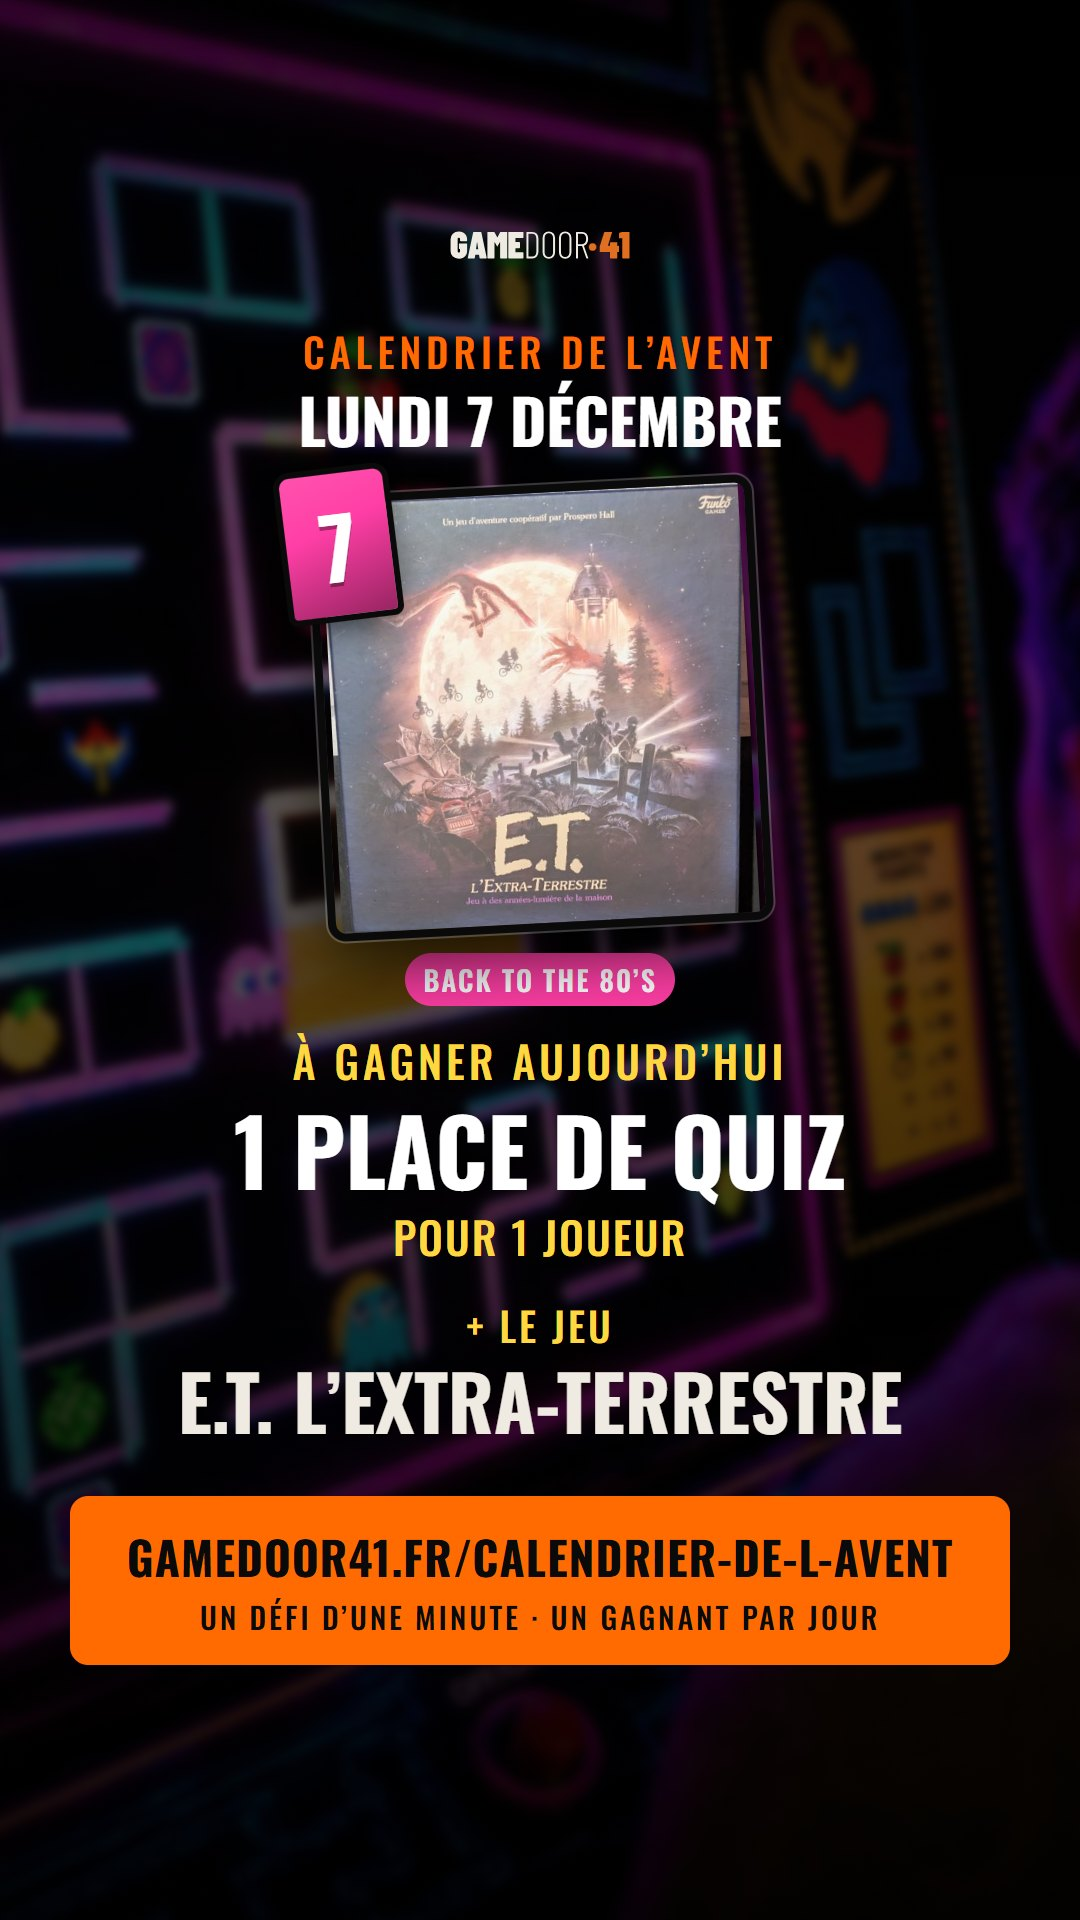
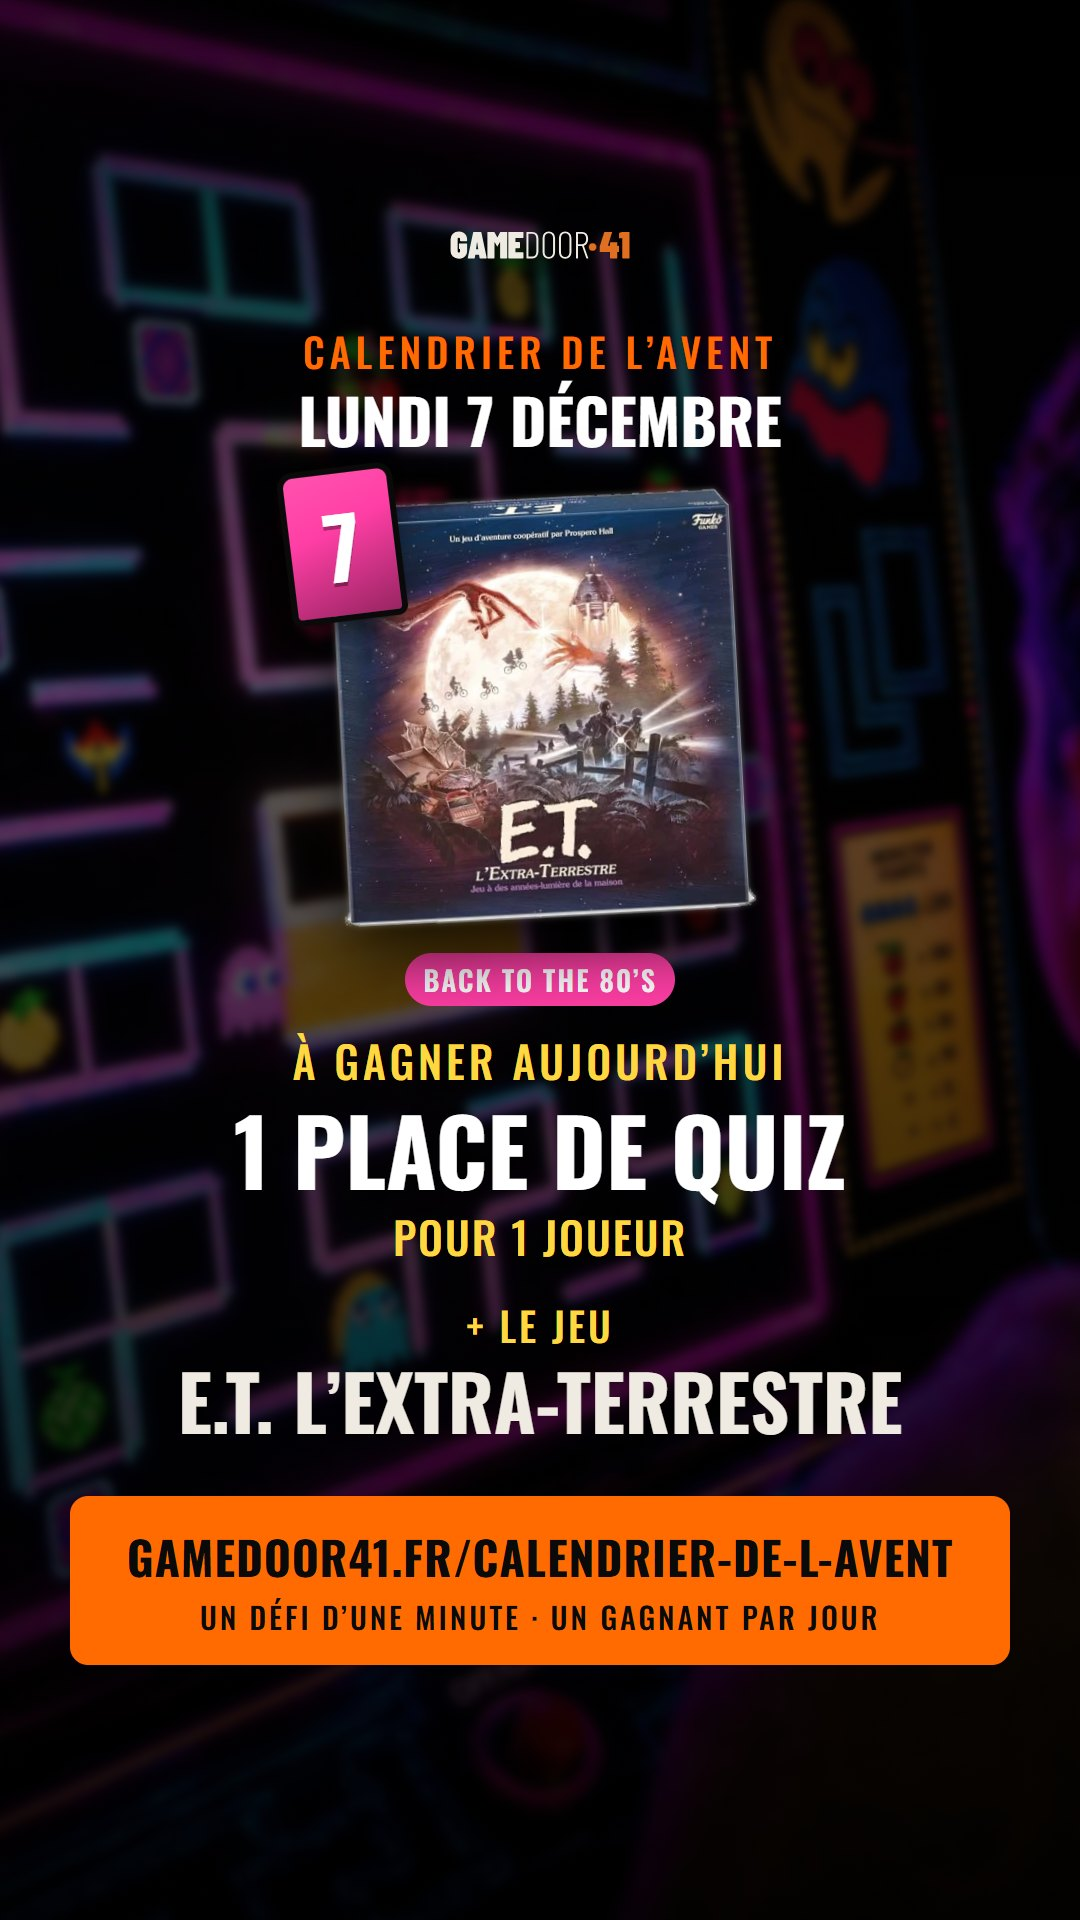
Avent 2026 : belles photos détourées d'E.T., Retour vers le futur, The Goonies
- Photos des boîtes fournies par Allan, fond blanc retiré par calcul
  (pas d'IA) : WebP transparents de 53 à 76 Ko, à la place des JPEG.
- Visuels des réseaux (jours 7, 15, 23) : pas de cadre autour d'une boîte
  détourée, une ombre qui suit sa forme (option `detoure`).
- VERSION_IMAGES = 2 (cache immuable de /img/*).

Changed region(s): [[0.275, 0.25, 0.7333, 0.5], [0.2444, 0.25, 0.275, 0.3125]]

diff --git a/calendrier-de-l-avent/index.html b/calendrier-de-l-avent/index.html
@@ -114,27 +114,27 @@
         <!-- lots:debut (écrit par avent-src/ecrire-lots.mjs à partir de avent-src/lots-2026.mjs : ne pas modifier ici) -->
         <div class="section-header"><p class="kicker">Les lots</p><h2>Un gagnant chaque jour, et 12 cadeaux en plus</h2></div>
         <ul class="av-lots">
-          <li class="av-carte av-lot av-lot--orange"><figure class="av-lot-visuel av-lot-visuel--photo"><img src="/img/quiz/salle-quiz-buzzers-premier-plan-480w.jpg?v=1" alt="La salle du quiz Buzz Your Brain" loading="lazy" decoding="async"></figure><p class="av-lot-quand">Chaque jour</p><h3>1&nbsp;place de quiz pour 1&nbsp;joueur</h3><p>Un gagnant tiré au sort parmi les joueurs du jour, que la réponse soit juste ou non. La place offerte vaut pour une seule personne, pas pour une session entière : les autres joueurs du groupe paient leur place au tarif habituel.</p></li>
-          <li class="av-carte av-lot av-lot--or"><figure class="av-lot-visuel av-lot-visuel--photo"><img src="/img/escape/salle-garde-a-vue-barreaux-poste-garde-480w.jpg?v=1" alt="La salle Garde à Vue" loading="lazy" decoding="async"></figure><p class="av-lot-quand">★ dimanches 6, 13 et 20, jeudi 24 décembre</p><h3>1&nbsp;place d’escape game pour 1&nbsp;joueur</h3><p>Les jours à étoile, la place de quiz devient une place d’escape game, dans la salle de votre choix : Garde à Vue, Psychiatric ou Back to the 80’s. Elle aussi vaut pour une seule personne.</p></li>
-          <li class="av-carte av-lot av-lot--or"><figure class="av-lot-visuel av-lot-visuel--photo"><img src="/img/escape/salle-back-to-80s-borne-arcade-pacman-480w.jpg?v=1" alt="La salle Back to the 80’s" loading="lazy" decoding="async"></figure><p class="av-lot-quand">Le grand tirage</p><h3>Une session d’escape game complète</h3><p>Le gros lot, tiré au sort parmi tous les tickets du mois : une session offerte pour toute votre équipe, de 2 à 6 joueurs, dans la salle de votre choix (Garde à Vue, Psychiatric ou Back to the 80’s).</p></li>
-          <li class="av-carte av-lot av-lot--orange"><figure class="av-lot-visuel av-lot-visuel--photo"><img src="/img/quiz/salle-quiz-buzz-your-brain-vue-large-480w.jpg?v=1" alt="La salle du quiz" loading="lazy" decoding="async"></figure><p class="av-lot-quand">Les 24 portes ouvertes</p><h3>Une session de quiz complète</h3><p>Tirée au sort parmi celles et ceux qui ont ouvert les 24 portes : une session offerte pour tout votre groupe, de 4 à 16 candidats, émission au choix.</p></li>
+          <li class="av-carte av-lot av-lot--orange"><figure class="av-lot-visuel av-lot-visuel--photo"><img src="/img/quiz/salle-quiz-buzzers-premier-plan-480w.jpg?v=2" alt="La salle du quiz Buzz Your Brain" loading="lazy" decoding="async"></figure><p class="av-lot-quand">Chaque jour</p><h3>1&nbsp;place de quiz pour 1&nbsp;joueur</h3><p>Un gagnant tiré au sort parmi les joueurs du jour, que la réponse soit juste ou non. La place offerte vaut pour une seule personne, pas pour une session entière : les autres joueurs du groupe paient leur place au tarif habituel.</p></li>
+          <li class="av-carte av-lot av-lot--or"><figure class="av-lot-visuel av-lot-visuel--photo"><img src="/img/escape/salle-garde-a-vue-barreaux-poste-garde-480w.jpg?v=2" alt="La salle Garde à Vue" loading="lazy" decoding="async"></figure><p class="av-lot-quand">★ dimanches 6, 13 et 20, jeudi 24 décembre</p><h3>1&nbsp;place d’escape game pour 1&nbsp;joueur</h3><p>Les jours à étoile, la place de quiz devient une place d’escape game, dans la salle de votre choix : Garde à Vue, Psychiatric ou Back to the 80’s. Elle aussi vaut pour une seule personne.</p></li>
+          <li class="av-carte av-lot av-lot--or"><figure class="av-lot-visuel av-lot-visuel--photo"><img src="/img/escape/salle-back-to-80s-borne-arcade-pacman-480w.jpg?v=2" alt="La salle Back to the 80’s" loading="lazy" decoding="async"></figure><p class="av-lot-quand">Le grand tirage</p><h3>Une session d’escape game complète</h3><p>Le gros lot, tiré au sort parmi tous les tickets du mois : une session offerte pour toute votre équipe, de 2 à 6 joueurs, dans la salle de votre choix (Garde à Vue, Psychiatric ou Back to the 80’s).</p></li>
+          <li class="av-carte av-lot av-lot--orange"><figure class="av-lot-visuel av-lot-visuel--photo"><img src="/img/quiz/salle-quiz-buzz-your-brain-vue-large-480w.jpg?v=2" alt="La salle du quiz" loading="lazy" decoding="async"></figure><p class="av-lot-quand">Les 24 portes ouvertes</p><h3>Une session de quiz complète</h3><p>Tirée au sort parmi celles et ceux qui ont ouvert les 24 portes : une session offerte pour tout votre groupe, de 4 à 16 candidats, émission au choix.</p></li>
         </ul>
         <p class="av-pas-de-perdant"><span class="av-pas-de-perdant-titre">Pas de perdant</span> Le 25 décembre, chaque joueur qui n’a gagné aucun tirage reçoit quand même 1&nbsp;place de quiz pour 1&nbsp;joueur, par mail. Il suffit d’avoir ouvert une porte.</p>
         <h3 class="av-jeux-titre">12 jours, un cadeau en plus de la place</h3>
         <p class="av-jeux-intro">Ces jours-là, le gagnant du jour repart avec sa place et avec un cadeau, choisi dans l’univers de la porte.</p>
         <ol class="av-jeux">
-          <li class="av-jeu av-teinte--gav"><figure class="av-jeu-visuel"><img src="/img/avent/jeux/dossiers-criminels.jpg?v=1" alt="La boîte du jeu Dossiers Criminels Pocket" loading="lazy" decoding="async"><span class="av-jeu-porte" aria-hidden="true">1</span></figure><div><p class="av-jeu-quand">mardi 1er décembre</p><h4>Dossiers Criminels Pocket <span>Qui a tué Isabella Vega ?</span></h4><p>Une enquête de poche : des indices, des suspects, un coupable à démasquer.</p><p class="av-jeu-place">Avec 1&nbsp;place de quiz pour 1&nbsp;joueur</p></div></li>
-          <li class="av-jeu av-teinte--psy"><figure class="av-jeu-visuel"><img src="/img/avent/jeux/black-stories.jpg?v=1" alt="La boîte du jeu Black Stories" loading="lazy" decoding="async"><span class="av-jeu-porte" aria-hidden="true">4</span></figure><div><p class="av-jeu-quand">vendredi 4 décembre</p><h4>Black Stories</h4><p>50 énigmes macabres à résoudre en posant des questions. Réponses permises : oui ou non.</p><p class="av-jeu-place">Avec 1&nbsp;place de quiz pour 1&nbsp;joueur</p></div></li>
-          <li class="av-jeu av-teinte--quiz"><figure class="av-jeu-visuel"><img src="/img/avent/jeux/esquisse.jpg?v=1" alt="La boîte du jeu Esquissé ?" loading="lazy" decoding="async"><span class="av-jeu-porte" aria-hidden="true">6</span></figure><div><p class="av-jeu-quand">★ dimanche 6 décembre</p><h4>Esquissé ? <span>Version 6 joueurs</span></h4><p>Le téléphone arabe en dessin : on dessine, on devine, et tout dérape.</p><p class="av-jeu-place">Avec 1&nbsp;place d’escape game pour 1&nbsp;joueur</p></div></li>
-          <li class="av-jeu av-teinte--80s"><figure class="av-jeu-visuel"><img src="/img/avent/jeux/et.jpg?v=1" alt="La boîte du jeu E.T. l’Extra-Terrestre" loading="lazy" decoding="async"><span class="av-jeu-porte" aria-hidden="true">7</span></figure><div><p class="av-jeu-quand">lundi 7 décembre</p><h4>E.T. l’Extra-Terrestre</h4><p>Jeu d’aventure coopératif : aidez E.T. à rentrer chez lui avant les agents. 2 à 4 joueurs, dès 10 ans, 30 minutes.</p><p class="av-jeu-place">Avec 1&nbsp;place de quiz pour 1&nbsp;joueur</p></div></li>
-          <li class="av-jeu av-teinte--quiz"><figure class="av-jeu-visuel"><img src="/img/avent/jeux/snort-funny.jpg?v=1" alt="La boîte du jeu Snort Funny" loading="lazy" decoding="async"><span class="av-jeu-porte" aria-hidden="true">10</span></figure><div><p class="av-jeu-quand">jeudi 10 décembre</p><h4>Snort Funny <span>Le jeu « ingroinyable »</span></h4><p>Un jeu d’ambiance pour faire rire toute la table.</p><p class="av-jeu-place">Avec 1&nbsp;place de quiz pour 1&nbsp;joueur</p></div></li>
-          <li class="av-jeu av-teinte--gav"><figure class="av-jeu-visuel"><img src="/img/avent/jeux/sous-scelles.jpg?v=1" alt="La boîte du jeu Sous Scellés : La Fille du Troisième" loading="lazy" decoding="async"><span class="av-jeu-porte" aria-hidden="true">13</span></figure><div><p class="av-jeu-quand">★ dimanche 13 décembre</p><h4>Sous Scellés <span>La Fille du Troisième</span></h4><p>Un dossier d’enquête à ouvrir chez vous : à vous de résoudre l’affaire.</p><p class="av-jeu-place">Avec 1&nbsp;place d’escape game pour 1&nbsp;joueur</p></div></li>
-          <li class="av-jeu av-teinte--80s"><figure class="av-jeu-visuel"><img src="/img/avent/jeux/retour-vers-le-futur.jpg?v=1" alt="La boîte du jeu Retour vers le futur" loading="lazy" decoding="async"><span class="av-jeu-porte" aria-hidden="true">15</span></figure><div><p class="av-jeu-quand">mardi 15 décembre</p><h4>Retour vers le futur</h4><p>Jeu d’aventure coopératif : faites monter la DeLorean à 88 miles à l’heure avant l’éclair. 2 à 4 joueurs, dès 10 ans, 50 minutes.</p><p class="av-jeu-place">Avec 1&nbsp;place de quiz pour 1&nbsp;joueur</p></div></li>
-          <li class="av-jeu av-teinte--psy"><figure class="av-jeu-visuel"><img src="/img/avent/jeux/scream.jpg?v=1" alt="La boîte du jeu Scream" loading="lazy" decoding="async"><span class="av-jeu-porte" aria-hidden="true">16</span></figure><div><p class="av-jeu-quand">mercredi 16 décembre</p><h4>Scream, le jeu</h4><p>Jeu de société coopératif : faites équipe pour échapper au tueur masqué.</p><p class="av-jeu-place">Avec 1&nbsp;place de quiz pour 1&nbsp;joueur</p></div></li>
-          <li class="av-jeu av-teinte--quiz"><figure class="av-jeu-visuel"><img src="/img/avent/jeux/longueur-d-onde.jpg?v=1" alt="La boîte du jeu Longueur d’onde" loading="lazy" decoding="async"><span class="av-jeu-porte" aria-hidden="true">18</span></figure><div><p class="av-jeu-quand">vendredi 18 décembre</p><h4>Longueur d’onde</h4><p>Jeu d’ambiance en équipes : êtes-vous sur la même longueur d’onde que vos amis ?</p><p class="av-jeu-place">Avec 1&nbsp;place de quiz pour 1&nbsp;joueur</p></div></li>
-          <li class="av-jeu av-teinte--psy"><figure class="av-jeu-visuel"><img src="/img/avent/jeux/chucky.jpg?v=1" alt="La boîte du jeu Chucky" loading="lazy" decoding="async"><span class="av-jeu-porte" aria-hidden="true">20</span></figure><div><p class="av-jeu-quand">★ dimanche 20 décembre</p><h4>Chucky, le jeu</h4><p>Jeu d’horreur coopératif : tous ensemble contre la poupée.</p><p class="av-jeu-place">Avec 1&nbsp;place d’escape game pour 1&nbsp;joueur</p></div></li>
-          <li class="av-jeu av-teinte--80s"><figure class="av-jeu-visuel"><img src="/img/avent/jeux/goonies.jpg?v=1" alt="La boîte du jeu The Goonies" loading="lazy" decoding="async"><span class="av-jeu-porte" aria-hidden="true">23</span></figure><div><p class="av-jeu-quand">mercredi 23 décembre</p><h4>The Goonies <span>Ne disent jamais mourir</span></h4><p>Jeu d’aventure : un joueur dirige les ennemis, les autres incarnent les Goonies. 2 à 5 joueurs, dès 12 ans, 50 minutes.</p><p class="av-jeu-place">Avec 1&nbsp;place de quiz pour 1&nbsp;joueur</p></div></li>
-          <li class="av-jeu av-teinte--final"><figure class="av-jeu-visuel"><img src="/img/avent/jeux/delorean.jpg?v=1" alt="La DeLorean radio-commandée" loading="lazy" decoding="async"><span class="av-jeu-porte" aria-hidden="true">24</span></figure><div><p class="av-jeu-quand">★ jeudi 24 décembre</p><h4>DeLorean radio-commandée <span>Retour vers le futur</span></h4><p>La voiture de Retour vers le futur, à piloter à la télécommande : le cadeau de la dernière porte.</p><p class="av-jeu-place">Avec 1&nbsp;place d’escape game pour 1&nbsp;joueur</p></div></li>
+          <li class="av-jeu av-teinte--gav"><figure class="av-jeu-visuel"><img src="/img/avent/jeux/dossiers-criminels.jpg?v=2" alt="La boîte du jeu Dossiers Criminels Pocket" loading="lazy" decoding="async"><span class="av-jeu-porte" aria-hidden="true">1</span></figure><div><p class="av-jeu-quand">mardi 1er décembre</p><h4>Dossiers Criminels Pocket <span>Qui a tué Isabella Vega ?</span></h4><p>Une enquête de poche : des indices, des suspects, un coupable à démasquer.</p><p class="av-jeu-place">Avec 1&nbsp;place de quiz pour 1&nbsp;joueur</p></div></li>
+          <li class="av-jeu av-teinte--psy"><figure class="av-jeu-visuel"><img src="/img/avent/jeux/black-stories.jpg?v=2" alt="La boîte du jeu Black Stories" loading="lazy" decoding="async"><span class="av-jeu-porte" aria-hidden="true">4</span></figure><div><p class="av-jeu-quand">vendredi 4 décembre</p><h4>Black Stories</h4><p>50 énigmes macabres à résoudre en posant des questions. Réponses permises : oui ou non.</p><p class="av-jeu-place">Avec 1&nbsp;place de quiz pour 1&nbsp;joueur</p></div></li>
+          <li class="av-jeu av-teinte--quiz"><figure class="av-jeu-visuel"><img src="/img/avent/jeux/esquisse.jpg?v=2" alt="La boîte du jeu Esquissé ?" loading="lazy" decoding="async"><span class="av-jeu-porte" aria-hidden="true">6</span></figure><div><p class="av-jeu-quand">★ dimanche 6 décembre</p><h4>Esquissé ? <span>Version 6 joueurs</span></h4><p>Le téléphone arabe en dessin : on dessine, on devine, et tout dérape.</p><p class="av-jeu-place">Avec 1&nbsp;place d’escape game pour 1&nbsp;joueur</p></div></li>
+          <li class="av-jeu av-teinte--80s"><figure class="av-jeu-visuel"><img src="/img/avent/jeux/et.webp?v=2" alt="La boîte du jeu E.T. l’Extra-Terrestre" loading="lazy" decoding="async"><span class="av-jeu-porte" aria-hidden="true">7</span></figure><div><p class="av-jeu-quand">lundi 7 décembre</p><h4>E.T. l’Extra-Terrestre</h4><p>Jeu d’aventure coopératif : aidez E.T. à rentrer chez lui avant les agents. 2 à 4 joueurs, dès 10 ans, 30 minutes.</p><p class="av-jeu-place">Avec 1&nbsp;place de quiz pour 1&nbsp;joueur</p></div></li>
+          <li class="av-jeu av-teinte--quiz"><figure class="av-jeu-visuel"><img src="/img/avent/jeux/snort-funny.jpg?v=2" alt="La boîte du jeu Snort Funny" loading="lazy" decoding="async"><span class="av-jeu-porte" aria-hidden="true">10</span></figure><div><p class="av-jeu-quand">jeudi 10 décembre</p><h4>Snort Funny <span>Le jeu « ingroinyable »</span></h4><p>Un jeu d’ambiance pour faire rire toute la table.</p><p class="av-jeu-place">Avec 1&nbsp;place de quiz pour 1&nbsp;joueur</p></div></li>
+          <li class="av-jeu av-teinte--gav"><figure class="av-jeu-visuel"><img src="/img/avent/jeux/sous-scelles.jpg?v=2" alt="La boîte du jeu Sous Scellés : La Fille du Troisième" loading="lazy" decoding="async"><span class="av-jeu-porte" aria-hidden="true">13</span></figure><div><p class="av-jeu-quand">★ dimanche 13 décembre</p><h4>Sous Scellés <span>La Fille du Troisième</span></h4><p>Un dossier d’enquête à ouvrir chez vous : à vous de résoudre l’affaire.</p><p class="av-jeu-place">Avec 1&nbsp;place d’escape game pour 1&nbsp;joueur</p></div></li>
+          <li class="av-jeu av-teinte--80s"><figure class="av-jeu-visuel"><img src="/img/avent/jeux/retour-vers-le-futur.webp?v=2" alt="La boîte du jeu Retour vers le futur" loading="lazy" decoding="async"><span class="av-jeu-porte" aria-hidden="true">15</span></figure><div><p class="av-jeu-quand">mardi 15 décembre</p><h4>Retour vers le futur</h4><p>Jeu d’aventure coopératif : faites monter la DeLorean à 88 miles à l’heure avant l’éclair. 2 à 4 joueurs, dès 10 ans, 50 minutes.</p><p class="av-jeu-place">Avec 1&nbsp;place de quiz pour 1&nbsp;joueur</p></div></li>
+          <li class="av-jeu av-teinte--psy"><figure class="av-jeu-visuel"><img src="/img/avent/jeux/scream.jpg?v=2" alt="La boîte du jeu Scream" loading="lazy" decoding="async"><span class="av-jeu-porte" aria-hidden="true">16</span></figure><div><p class="av-jeu-quand">mercredi 16 décembre</p><h4>Scream, le jeu</h4><p>Jeu de société coopératif : faites équipe pour échapper au tueur masqué.</p><p class="av-jeu-place">Avec 1&nbsp;place de quiz pour 1&nbsp;joueur</p></div></li>
+          <li class="av-jeu av-teinte--quiz"><figure class="av-jeu-visuel"><img src="/img/avent/jeux/longueur-d-onde.jpg?v=2" alt="La boîte du jeu Longueur d’onde" loading="lazy" decoding="async"><span class="av-jeu-porte" aria-hidden="true">18</span></figure><div><p class="av-jeu-quand">vendredi 18 décembre</p><h4>Longueur d’onde</h4><p>Jeu d’ambiance en équipes : êtes-vous sur la même longueur d’onde que vos amis ?</p><p class="av-jeu-place">Avec 1&nbsp;place de quiz pour 1&nbsp;joueur</p></div></li>
+          <li class="av-jeu av-teinte--psy"><figure class="av-jeu-visuel"><img src="/img/avent/jeux/chucky.jpg?v=2" alt="La boîte du jeu Chucky" loading="lazy" decoding="async"><span class="av-jeu-porte" aria-hidden="true">20</span></figure><div><p class="av-jeu-quand">★ dimanche 20 décembre</p><h4>Chucky, le jeu</h4><p>Jeu d’horreur coopératif : tous ensemble contre la poupée.</p><p class="av-jeu-place">Avec 1&nbsp;place d’escape game pour 1&nbsp;joueur</p></div></li>
+          <li class="av-jeu av-teinte--80s"><figure class="av-jeu-visuel"><img src="/img/avent/jeux/goonies.webp?v=2" alt="La boîte du jeu The Goonies" loading="lazy" decoding="async"><span class="av-jeu-porte" aria-hidden="true">23</span></figure><div><p class="av-jeu-quand">mercredi 23 décembre</p><h4>The Goonies <span>Ne disent jamais mourir</span></h4><p>Jeu d’aventure : un joueur dirige les ennemis, les autres incarnent les Goonies. 2 à 5 joueurs, dès 12 ans, 50 minutes.</p><p class="av-jeu-place">Avec 1&nbsp;place de quiz pour 1&nbsp;joueur</p></div></li>
+          <li class="av-jeu av-teinte--final"><figure class="av-jeu-visuel"><img src="/img/avent/jeux/delorean.jpg?v=2" alt="La DeLorean radio-commandée" loading="lazy" decoding="async"><span class="av-jeu-porte" aria-hidden="true">24</span></figure><div><p class="av-jeu-quand">★ jeudi 24 décembre</p><h4>DeLorean radio-commandée <span>Retour vers le futur</span></h4><p>La voiture de Retour vers le futur, à piloter à la télécommande : le cadeau de la dernière porte.</p><p class="av-jeu-place">Avec 1&nbsp;place d’escape game pour 1&nbsp;joueur</p></div></li>
         </ol>
         <p class="av-note">Le tirage du jour se fait parmi les portes ouvertes le jour même. Pour que ce ne soit pas toujours les mêmes : si le tirage du jour retombe sur quelqu’un qui a déjà gagné une place, on refait le tirage. Le grand tirage et le tirage des 24 portes sont ouverts aux gagnants du jour et annoncés le 25 décembre à midi, mais une même personne ne peut pas gagner les deux sessions complètes. Tickets : 1 par porte ouverte le jour même, 1 de plus si la réponse est juste, 1 pour une porte ouverte en retard. Places et sessions offertes valables 12 mois. Cadeaux à retirer à l’accueil, à Mondeville, avant le 28 février 2027. Lots non échangeables et non remboursables.</p>
         <!-- lots:fin -->
